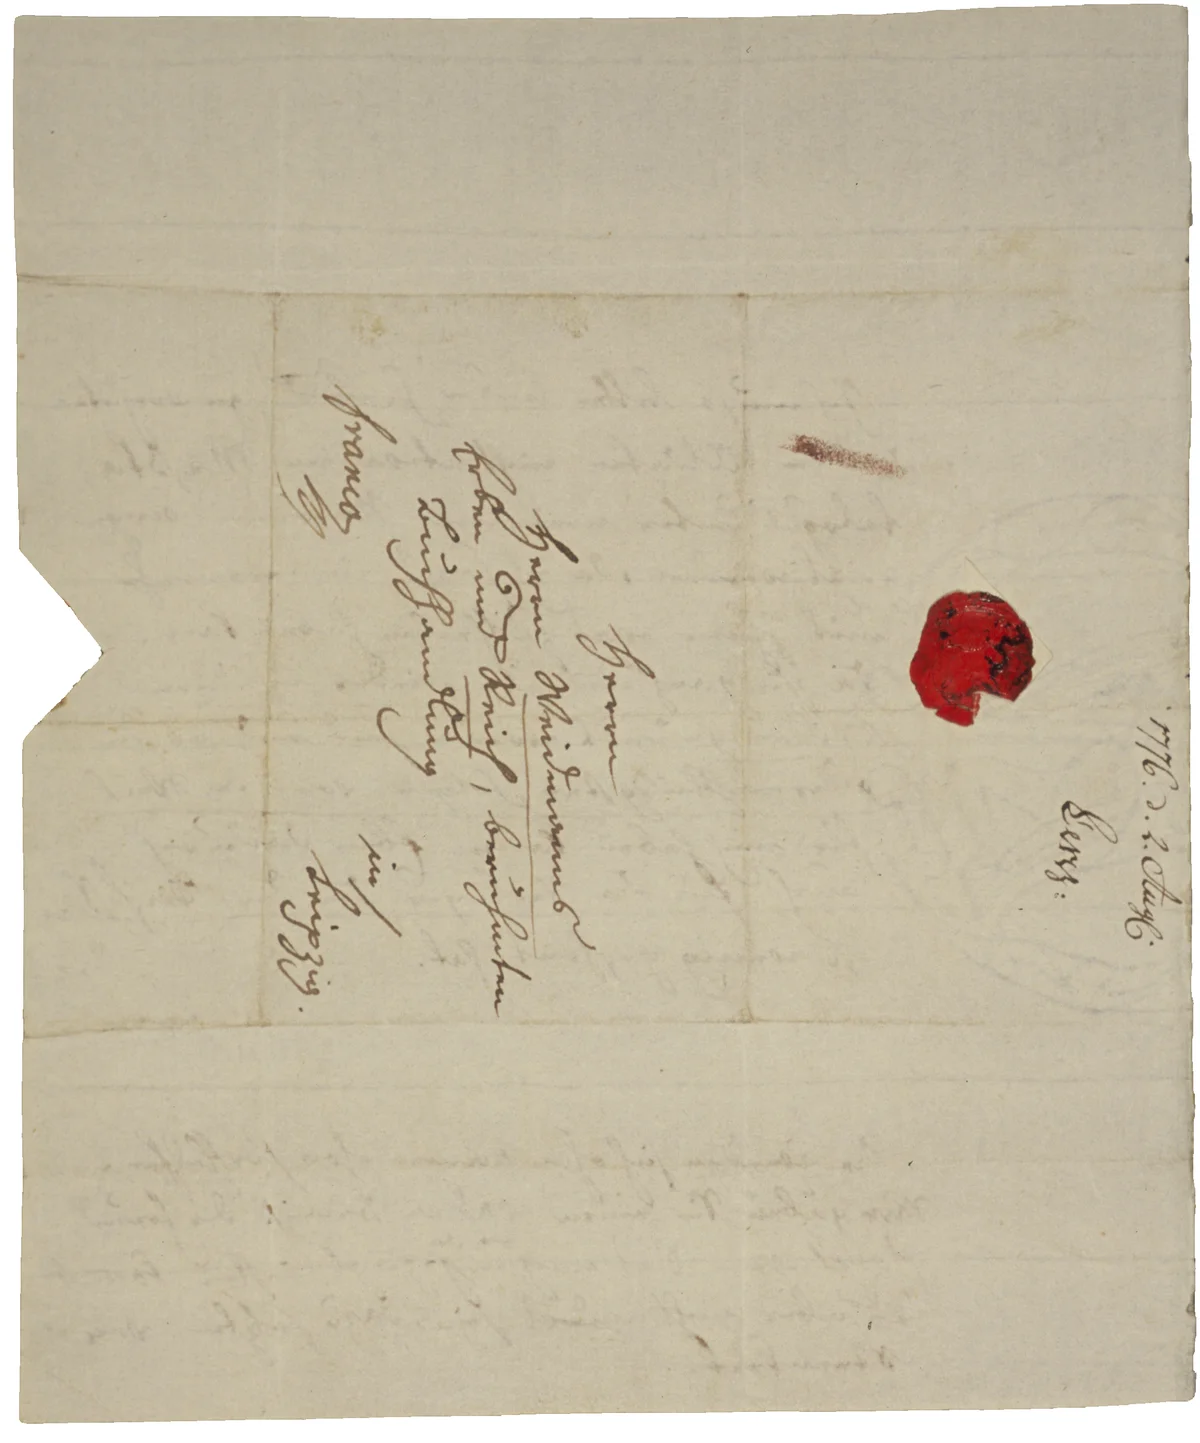
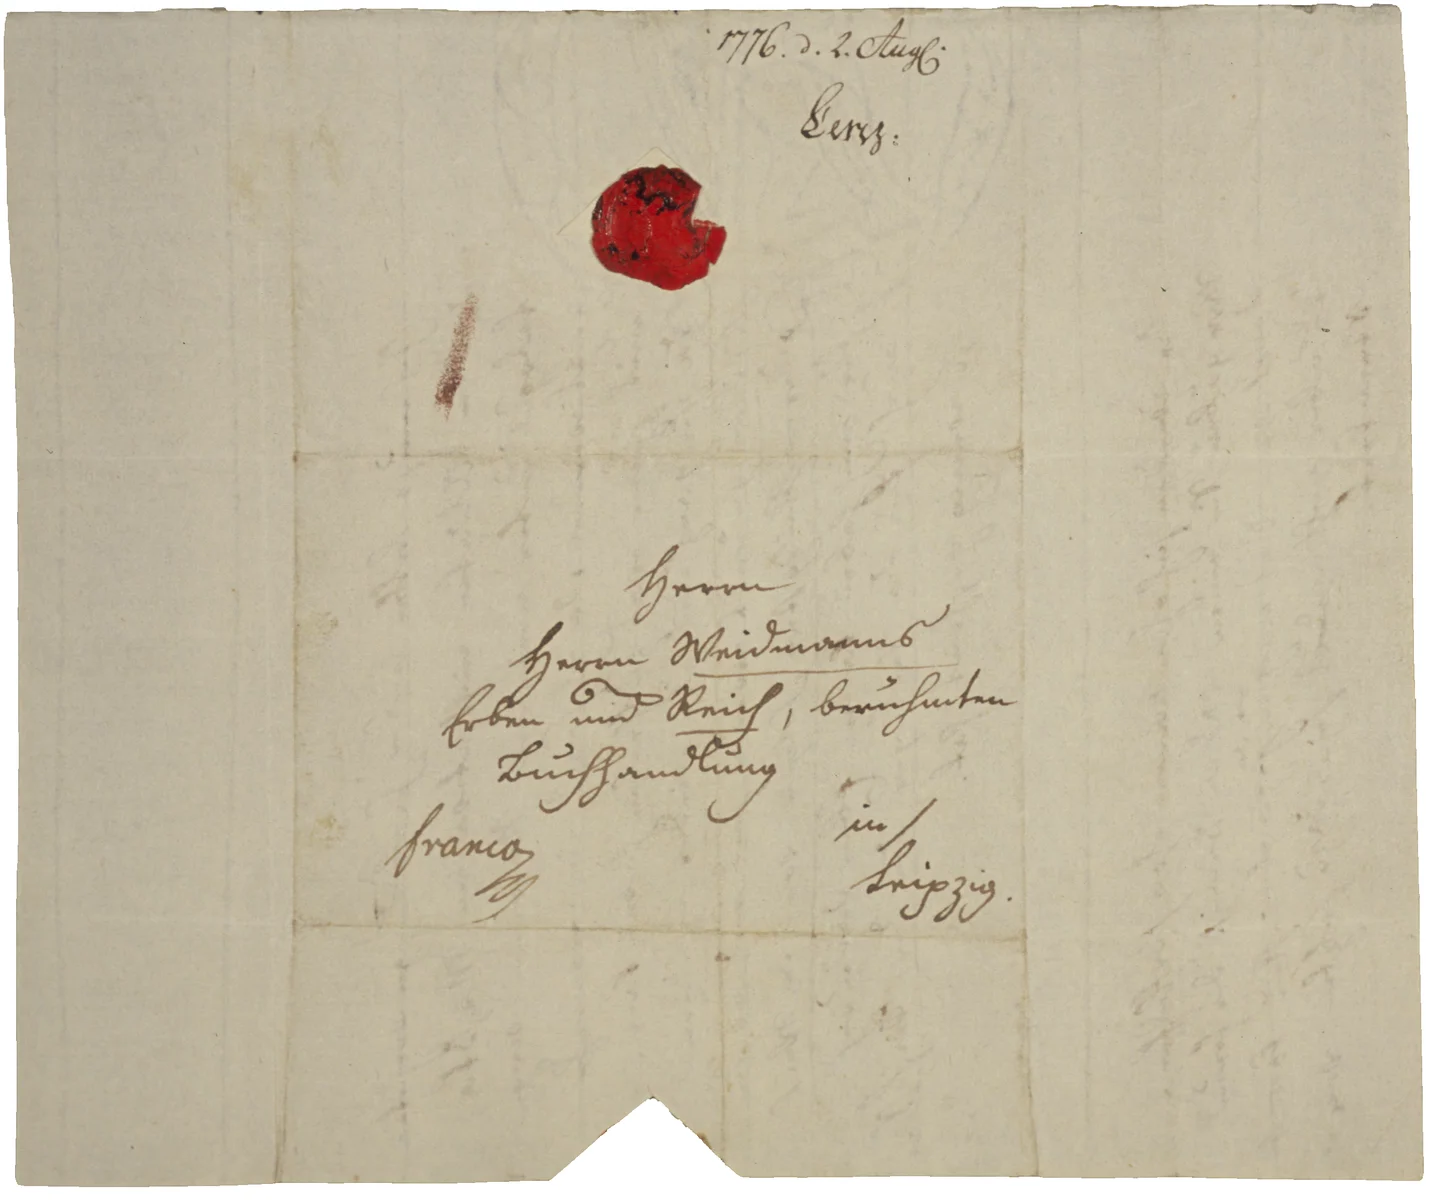
FIX: Abbildungen ausrichten und mobile Darstellung verbessern

diff --git a/app/src/styles/global.css b/app/src/styles/global.css
@@ -353,7 +353,6 @@
   .detail-header-row:not(:has(.letter-route-map)) { grid-template-columns:minmax(0,1fr); }
   @media (width < 1100px) {
     .detail-header-row { grid-template-columns:minmax(0,1fr); }
-    .detail-header-row > .letter-route-map { display:none; }
   }
   @media print { .detail-header-row { display:block; } }
   .detail-header, .letter-content > .apparatus { background-color:color-mix(in srgb, var(--color-paper) 35%, transparent); }
@@ -479,14 +478,15 @@
   .page-prose .page-portrait img { margin-block:0; }
   .page-prose figcaption { font-size:.9em; color:var(--color-muted); }
   .page-prose .editorial-image { width:100%; }
+  .page-prose .editorial-image[data-landscape] { width:100cqi; }
   .editorial-image-media { position:relative; }
   .page-prose .editorial-image-media > p { margin:0; }
   .page-prose .editorial-image img { display:block; width:100%; height:auto; margin:0; }
   .page-prose .editorial-image figcaption { margin-top:.6rem; font:400 .875rem/1.45 var(--font-sans); }
   .page-prose .editorial-image-original { position:absolute; bottom:1.5rem; right:1.5rem; max-width:calc(100% - 3rem); opacity:0; pointer-events:none; text-decoration:none; }
   .editorial-image-media:is(:hover, :focus-within) .editorial-image-original { opacity:1; pointer-events:auto; }
-  @media (hover:none) {
-    .page-prose .editorial-image-original { opacity:1; pointer-events:auto; }
+  @media (hover:none), (width < 640px) {
+    .page-prose .editorial-image-original { opacity:1; pointer-events:auto; min-height:2.75rem; bottom:.75rem; right:.75rem; max-width:calc(100% - 1.5rem); }
   }
   @media print {
     .editorial-image-original { display:none; }
